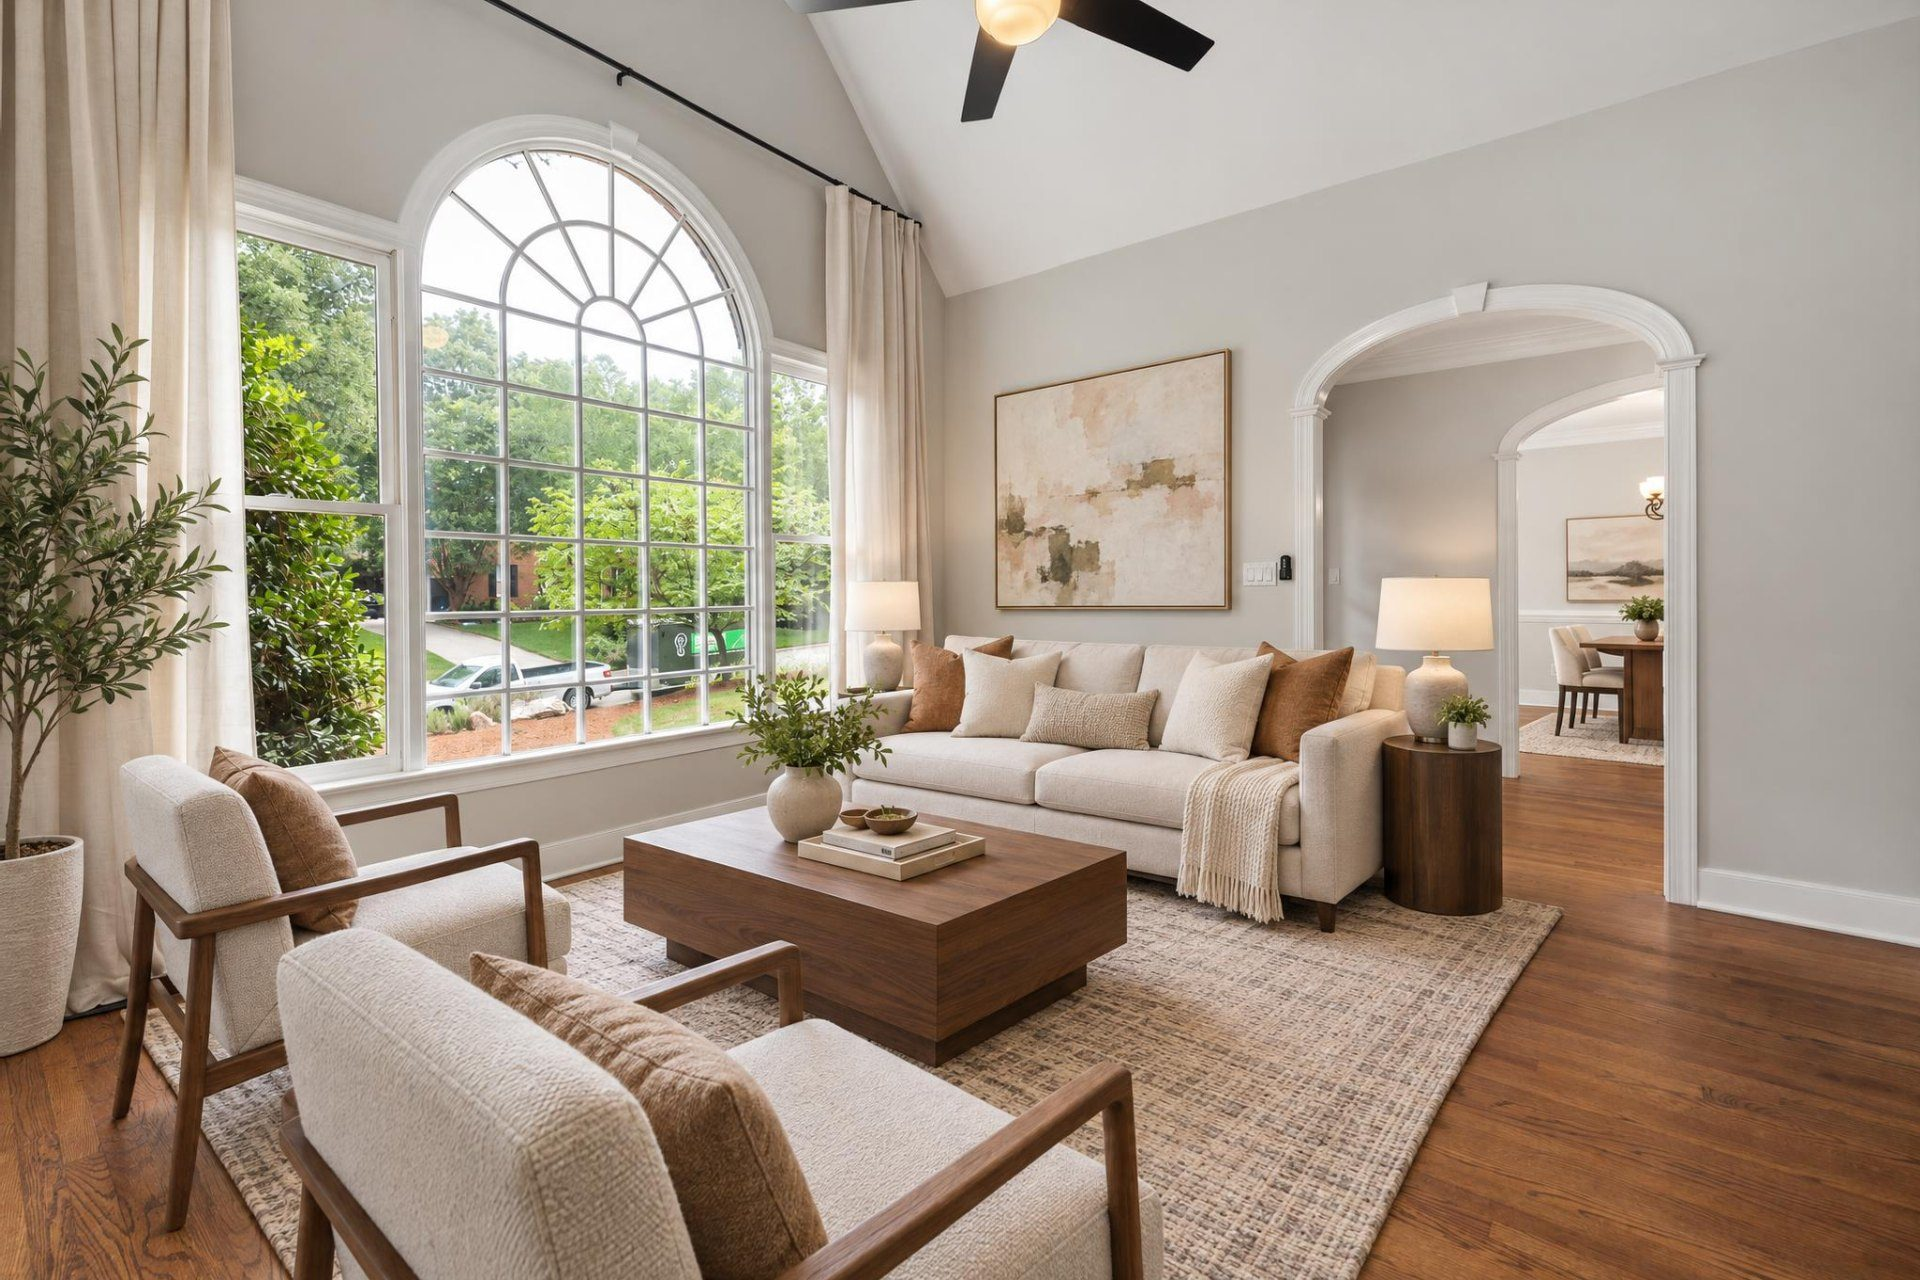
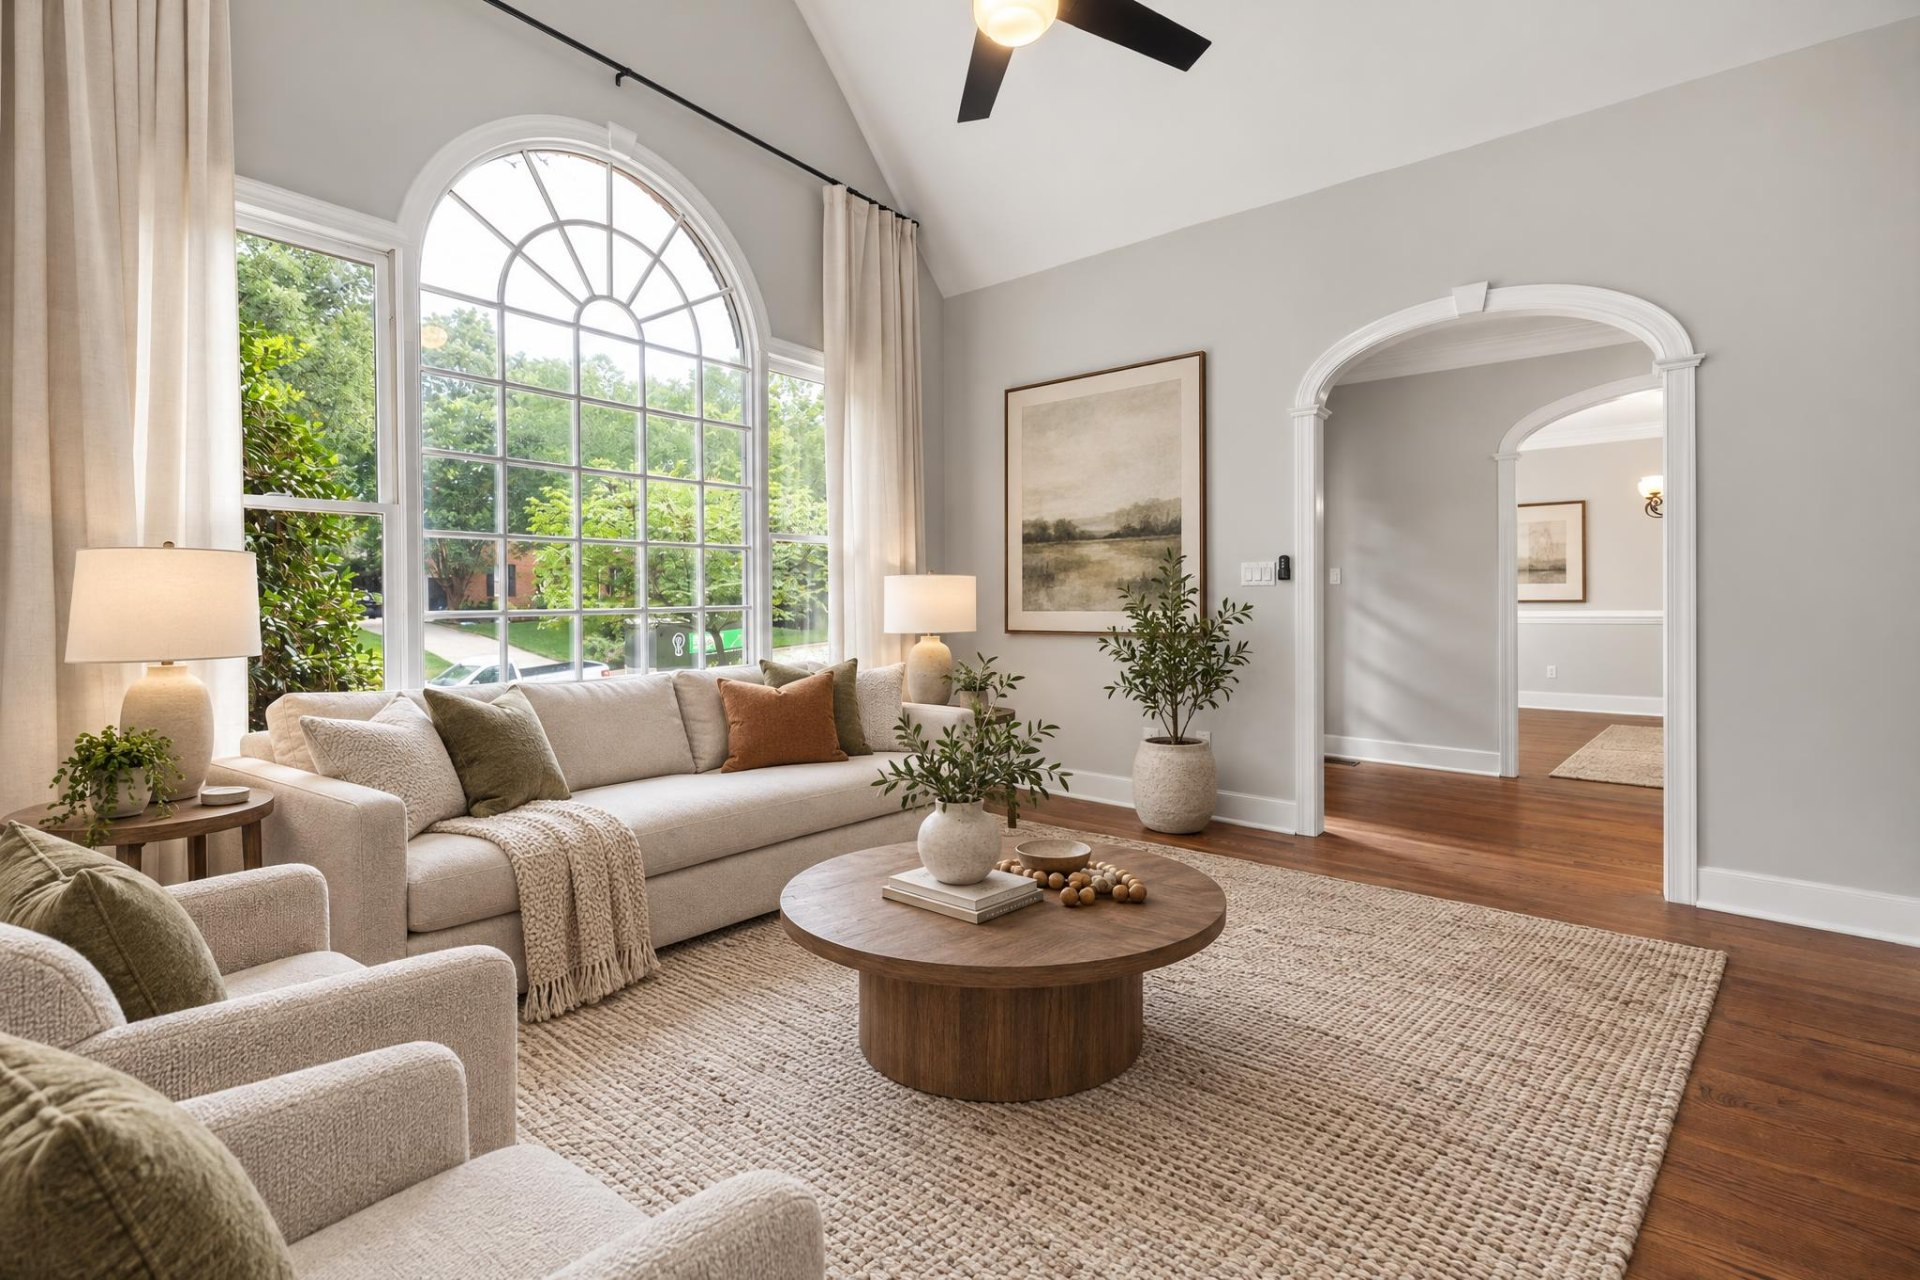
fix: living-room examples keep the archway clear
The hero and gallery stagings had a sofa, side table and chair parked
in front of the archway. Re-staged the room with the new layout rule
and swapped in two results that leave the doorway open, aligned to the
original photo.

Also replaces the old dark-and-gold share card (a fake AI before/after)
with one built from this real result in the current brand, and adds
og:image size and alt tags.

diff --git a/index.html b/index.html
@@ -19,15 +19,18 @@
     <meta property="og:site_name" content="RealVision" />
     <meta property="og:title" content="RealVision — AI Virtual Staging for Real Estate" />
     <meta property="og:description" content="Furnish empty rooms, declutter, day-to-dusk and more in about a minute. Built for listing agents and photographers." />
-    <meta property="og:image" content="https://stage-dream-home.lovable.app/og-image.jpg" />
+    <meta property="og:image" content="https://stage-dream-home.lovable.app/og-image.jpg?v=2" />
+    <meta property="og:image:width" content="1200" />
+    <meta property="og:image:height" content="630" />
+    <meta property="og:image:alt" content="An empty living room and the same room virtually staged by RealVision" />
 
     <!-- Twitter -->
     <meta name="twitter:card" content="summary_large_image" />
     <meta name="twitter:title" content="RealVision — AI Virtual Staging for Real Estate" />
     <meta name="twitter:description" content="Furnish empty rooms, declutter, day-to-dusk and more in about a minute. Built for listing agents and photographers." />
-    <meta name="twitter:image" content="https://stage-dream-home.lovable.app/og-image.jpg" />
+    <meta name="twitter:image" content="https://stage-dream-home.lovable.app/og-image.jpg?v=2" />
 
-    <!-- Fonts: Cormorant Garamond (display) + DM Sans (body) -->
+    <!-- Fonts: Newsreader (display) + Geist (UI and body) -->
     <link rel="preconnect" href="https://fonts.googleapis.com" />
     <link rel="preconnect" href="https://fonts.gstatic.com" crossorigin />
     <link

diff --git a/src/pages/Landing.tsx b/src/pages/Landing.tsx
@@ -253,7 +253,7 @@ const StyleGallery = () => (
           original={archedBefore}
           width={1920}
           height={1280}
-          alt="A living room with an arched window staged in a Modern style with a cream sofa, swivel chairs and a round coffee table"
+          alt="A living room with an arched window staged in a Modern style with a cream sofa, a tub chair, a walnut coffee table and a sideboard, with the archway left clear"
           caption="Living room, Modern"
           aspect="aspect-[16/10]"
         />

diff --git a/src/config/showcase.ts b/src/config/showcase.ts
@@ -39,7 +39,7 @@ export const TOOL_EXAMPLES: Record<ToolId, ShowcasePair> = {
     ...WIDE,
     ...ARCHED,
     after: archedAfter,
-    afterAlt: "The same room staged with a cream sofa, a walnut coffee table, two lounge chairs and a woven rug",
+    afterAlt: "The same room staged with a long cream sofa under the window, two armchairs and a round walnut coffee table on a jute rug, with the archway left clear",
     afterLabel: "Staged, Modern",
   },
   remove: {
